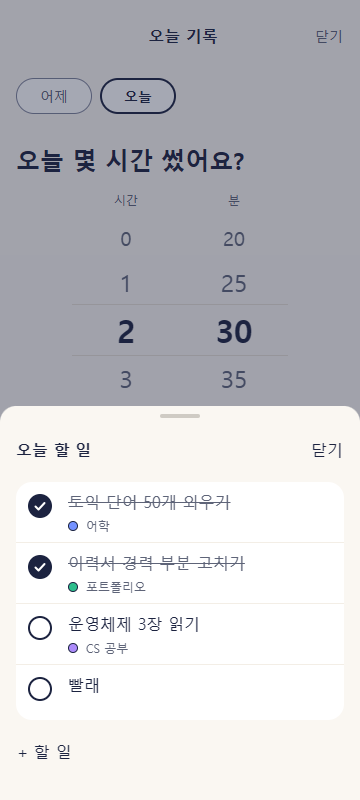
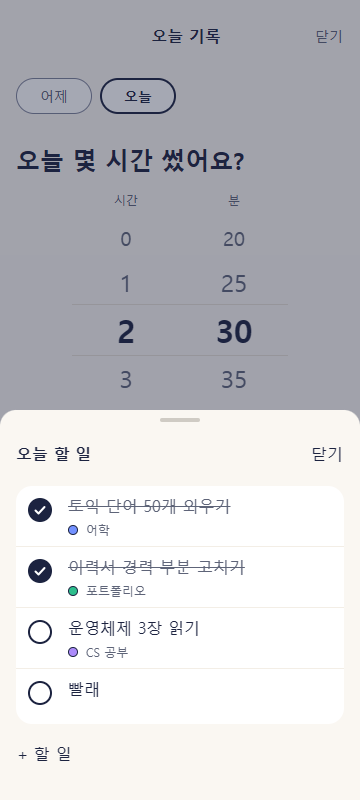
원샷 v2 고침9: 사진 시험(docs/oneshot-v2/고침9-J3)·휠 숫자 칸 폭·「어제/오늘」 알약 높이·「상태보기에서 보기 ›」 간격

diff --git a/app/globals.css b/app/globals.css
@@ -559,7 +559,7 @@ select.input { appearance: auto; }
 .time-wheel-row { display: flex; align-items: center; justify-content: center; min-block-size: 44px; font: var(--font-title); font-weight: 400; color: var(--color-text-sub); font-variant-numeric: tabular-nums; }
 .time-wheel-row.is-far { font: var(--font-goal-line); font-weight: 400; }
 .time-wheel-center { min-block-size: 52px; border-block: 1px solid var(--color-divider); font: var(--font-name); color: var(--color-text); cursor: text; }
-.time-wheel-input { inline-size: 68px; min-height: 48px; padding: 0; text-align: center; font: var(--font-name); font-variant-numeric: tabular-nums; color: var(--color-text); }
+.time-wheel-input { flex: none; inline-size: 68px; min-height: 48px; padding: 0; text-align: center; font: var(--font-name); font-variant-numeric: tabular-nums; color: var(--color-text); }
 .time-wheel-input:focus { outline: none; border: 2px solid var(--color-primary); }
 /* 「− 5분」「+ 5분」: 120×48 알약 둘, 사이 12(끌지 않는 길) */
 .time-wheel-nudge { display: flex; justify-content: center; gap: var(--space-3); margin-top: var(--space-1); }
@@ -572,7 +572,7 @@ select.input { appearance: auto; }
   position: relative; z-index: 0; display: inline-flex; align-items: center; justify-content: center; min-inline-size: 76px; min-block-size: var(--tap-min);
   padding: 6px var(--space-4); border: 0; background: none; cursor: pointer; font: var(--font-sub); color: var(--color-text-sub);
 }
-.evening-day::after { content: ""; position: absolute; inset: 6px 0; z-index: -1; border: 1px solid var(--color-border-input); border-radius: var(--radius-pill); background: var(--color-surface); }
+.evening-day::after { content: ""; position: absolute; inset-inline: 0; top: calc(50% - 18px); block-size: 36px; box-sizing: border-box; z-index: -1; border: 1px solid var(--color-border-input); border-radius: var(--radius-pill); background: var(--color-surface); }
 .evening-day[aria-pressed="true"] { color: var(--color-text); font-weight: 700; }
 .evening-day[aria-pressed="true"]::after { border: 2px solid var(--color-primary); }
 .evening-day:focus-visible { outline: none; }
@@ -604,6 +604,7 @@ select.input { appearance: auto; }
 .evening-saved:focus { outline: none; }
 .evening-saved-icon { flex: none; display: block; color: var(--color-text); }
 .evening-open-growth { align-self: center; margin-top: var(--space-3); font: 500 0.875rem/1.25rem var(--font-family); color: var(--color-text); }
+.evening-open-growth-go { margin-inline-start: 4px; }
 .after-save-card { margin-top: var(--space-4); }
 .after-save-week { margin: 0; font: var(--font-body); font-weight: 700; color: var(--color-text); }
 .after-save-rows { display: grid; width: 100%; margin: var(--space-3) 0 0; padding: 0; list-style: none; }

diff --git a/tests/screens/fix9-j3.spec.ts b/tests/screens/fix9-j3.spec.ts
@@ -224,7 +224,8 @@ test("S5-2 나누기 · 칩 하나 고른 상태 — 87:96", async ({ page }) =>
   const picked = dialog.locator(".ratio-list li.is-picked");
   expect(await style(picked, ["background-color"])).toEqual({ "background-color": "rgb(243, 238, 230)" });
   near((await box(picked.locator(".step-btn-face").first())).width, 32, 0.5, "−/+ 원 32");
-  await expect(picked.locator(".num-field")).toHaveText("30분");
+  await expect(picked.locator(".num-field input")).toHaveValue("30"); // 숫자 칸 안에 숫자 + 단위(A3)
+  await expect(picked.locator(".num-field .stepper-unit")).toHaveText("분");
   await photo(page, "S5-2 나누기 · 칩 하나 고른 상태");
 });
 
@@ -269,7 +270,7 @@ async function afterSave(page: Page, s: string) {
   near(go.x + go.width / 2, 180, 2, "글 단추 가운데");
   expect(go.y).toBeGreaterThan((await box(card)).y + (await box(card)).height - 1);
   await expect(page.locator(".bottom-actions")).toHaveCount(0);
-  await expect(dialog.getByRole("button")).toHaveText(["닫기", "상태보기에서 보기 ›"]);
+  await expect(dialog.getByRole("button")).toHaveText(["닫기", "상태보기에서 보기›"]); // 「›」는 글자 사이 4px(꾸밈, 화면 읽기에서 숨김)
   // 막대: 높이 16, 빗금 칸은 같은 분야 색 위 사선 빗금
   const hatch = card.locator(".after-save-hatch").first();
   near((await box(hatch)).height, 16, 0.5, "막대 높이");

diff --git a/components/evening-record.tsx b/components/evening-record.tsx
@@ -718,7 +718,7 @@ export function EveningRecord({
               {onOpenGrowth && (
                 <TextButton className="evening-open-growth text-tap" onClick={onOpenGrowth}>
                   {EVENING_TEXT.openGrowth}
-                  <span aria-hidden="true"> ›</span>
+                  <span className="evening-open-growth-go" aria-hidden="true">›</span>
                 </TextButton>
               )}
             </>
